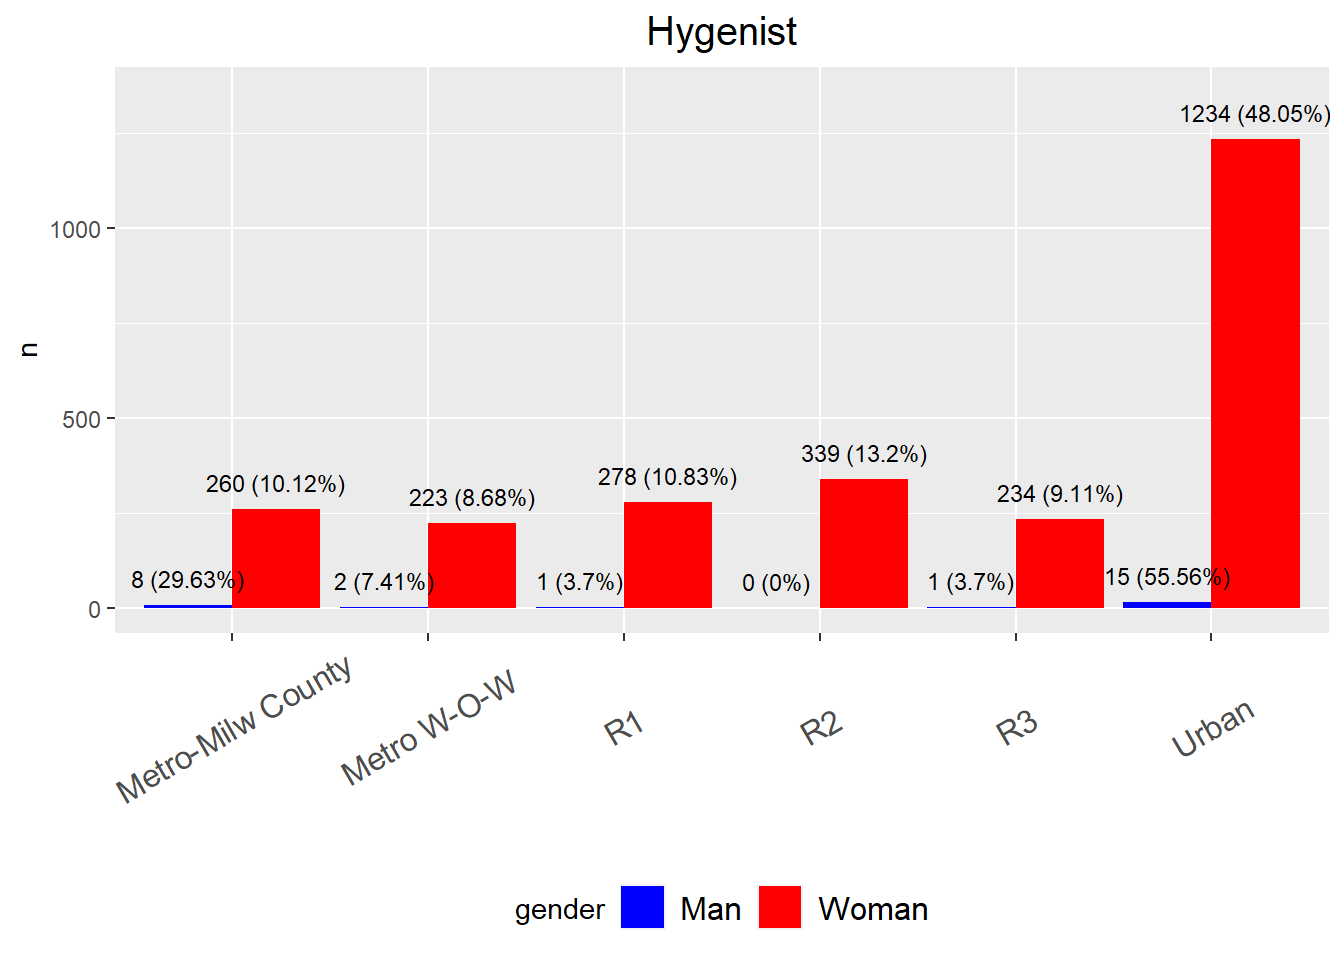
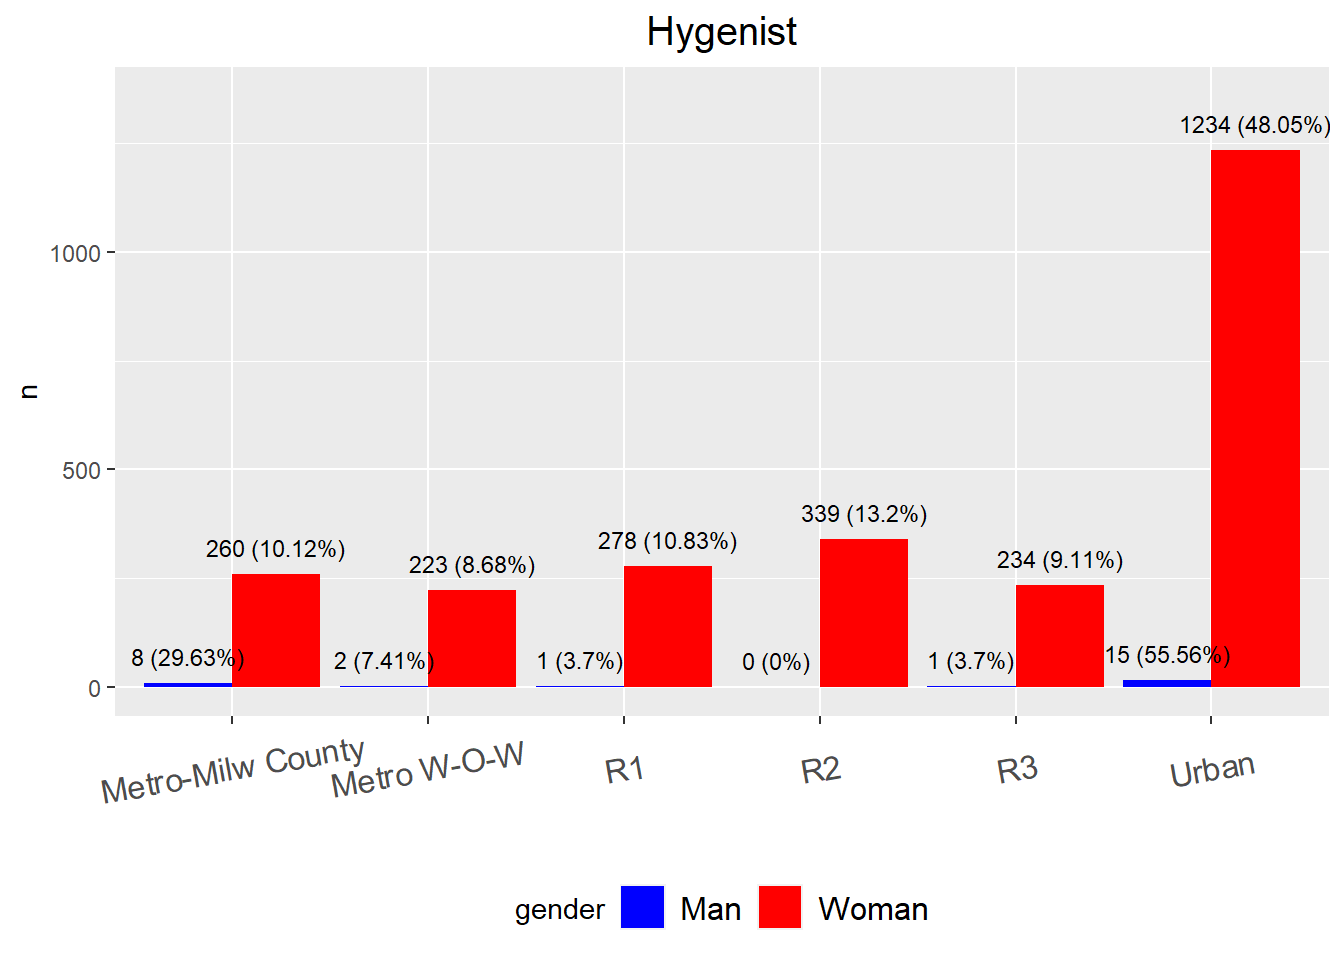
1/13/2025

diff --git a/docs/2024_0701_survey_part2.html b/docs/2024_0701_survey_part2.html
@@ -550,15 +550,15 @@ project makes it easier to run your code on other machines.</p>
 <div class="panel panel-default">
 <div class="panel-heading">
 <p class="panel-title">
-<a data-toggle="collapse" data-parent="#workflowr-checks" href="#strongRepositoryversionstrongahrefhttpsgithubcomhan16Collaborationstree68d7daff8e94c3f43565e73b5c15cebb3b57adf5targetblank68d7dafa">
+<a data-toggle="collapse" data-parent="#workflowr-checks" href="#strongRepositoryversionstrongahrefhttpsgithubcomhan16Collaborationstreee7750ee397905d7e55e713b433039f6348e9f17etargetblanke7750eea">
 <span class="glyphicon glyphicon-ok text-success"
 aria-hidden="true"></span> <strong>Repository version:</strong>
-<a href="https://github.com/han16/Collaborations/tree/68d7daff8e94c3f43565e73b5c15cebb3b57adf5" target="_blank">68d7daf</a>
+<a href="https://github.com/han16/Collaborations/tree/e7750ee397905d7e55e713b433039f6348e9f17e" target="_blank">e7750ee</a>
 </a>
 </p>
 </div>
 <div
[2 lines of base64/hex data omitted]
 class="panel-collapse collapse">
 <div class="panel-body">
 <p>
@@ -568,7 +568,7 @@ reproducibility.
 </p>
 <p>
 The results in this page were generated with repository version
-<a href="https://github.com/han16/Collaborations/tree/68d7daff8e94c3f43565e73b5c15cebb3b57adf5" target="_blank">68d7daf</a>.
+<a href="https://github.com/han16/Collaborations/tree/e7750ee397905d7e55e713b433039f6348e9f17e" target="_blank">e7750ee</a>.
 See the <em>Past versions</em> tab to see a history of the changes made
 to the R Markdown and HTML files.
 </p>
@@ -587,12 +587,8 @@ Ignored files:
     Ignored:    analysis/.Rhistory
     Ignored:    analysis/2022_Mar2_Marinho_cache/
 
-Untracked files:
-    Untracked:  analysis/2025_0101_Ardita.Rmd
-
 Unstaged changes:
     Modified:   analysis/2024_0701_survey_part2.Rmd
-    Modified:   analysis/2025.Rmd
 
 </code></pre>
 <p>
@@ -639,6 +635,40 @@ Message
 </tr>
 </thead>
 <tbody>
+<tr>
+<td>
+Rmd
+</td>
+<td>
+<a href="https://github.com/han16/Collaborations/blob/e7750ee397905d7e55e713b433039f6348e9f17e/analysis/2024_0701_survey_part2.Rmd" target="_blank">e7750ee</a>
+</td>
+<td>
+han
+</td>
+<td>
+2025-01-13
+</td>
+<td>
+1/13/2025
+</td>
+</tr>
+<tr>
+<td>
+html
+</td>
+<td>
+<a href="https://rawcdn.githack.com/han16/Collaborations/e7750ee397905d7e55e713b433039f6348e9f17e/docs/2024_0701_survey_part2.html" target="_blank">e7750ee</a>
+</td>
+<td>
+han
+</td>
+<td>
+2025-01-13
+</td>
+<td>
+1/13/2025
+</td>
+</tr>
 <tr>
 <td>
 Rmd
@@ -824,6 +854,17 @@ Date
 <tbody>
 <tr>
 <td>
+<a href="https://github.com/han16/Collaborations/blob/e7750ee397905d7e55e713b433039f6348e9f17e/docs/figure/2024_0701_survey_part2.Rmd/unnamed-chunk-5-1.png" target="_blank">e7750ee</a>
+</td>
+<td>
+han
+</td>
+<td>
+2025-01-13
+</td>
+</tr>
+<tr>
+<td>
 <a href="https://github.com/han16/Collaborations/blob/afbb9ccc5712b3826cdb1a3acc3dcba3f250e99c/docs/figure/2024_0701_survey_part2.Rmd/unnamed-chunk-5-1.png" target="_blank">afbb9cc</a>
 </td>
 <td>
@@ -863,6 +904,17 @@ Date
 </tr>
 </thead>
 <tbody>
+<tr>
+<td>
+<a href="https://github.com/han16/Collaborations/blob/e7750ee397905d7e55e713b433039f6348e9f17e/docs/figure/2024_0701_survey_part2.Rmd/unnamed-chunk-5-2.png" target="_blank">e7750ee</a>
+</td>
+<td>
+han
+</td>
+<td>
+2025-01-13
+</td>
+</tr>
 <tr>
 <td>
 <a href="https://github.com/han16/Collaborations/blob/afbb9ccc5712b3826cdb1a3acc3dcba3f250e99c/docs/figure/2024_0701_survey_part2.Rmd/unnamed-chunk-5-2.png" target="_blank">afbb9cc</a>
@@ -926,6 +978,17 @@ Date
 <tbody>
 <tr>
 <td>
+<a href="https://github.com/han16/Collaborations/blob/e7750ee397905d7e55e713b433039f6348e9f17e/docs/figure/2024_0701_survey_part2.Rmd/unnamed-chunk-6-1.png" target="_blank">e7750ee</a>
+</td>
+<td>
+han
+</td>
+<td>
+2025-01-13
+</td>
+</tr>
+<tr>
+<td>
 <a href="https://github.com/han16/Collaborations/blob/68d7daff8e94c3f43565e73b5c15cebb3b57adf5/docs/figure/2024_0701_survey_part2.Rmd/unnamed-chunk-6-1.png" target="_blank">68d7daf</a>
 </td>
 <td>
@@ -986,6 +1049,17 @@ Date
 </tr>
 </thead>
 <tbody>
+<tr>
+<td>
+<a href="https://github.com/han16/Collaborations/blob/e7750ee397905d7e55e713b433039f6348e9f17e/docs/figure/2024_0701_survey_part2.Rmd/unnamed-chunk-6-2.png" target="_blank">e7750ee</a>
+</td>
+<td>
+han
+</td>
+<td>
+2025-01-13
+</td>
+</tr>
 <tr>
 <td>
 <a href="https://github.com/han16/Collaborations/blob/68d7daff8e94c3f43565e73b5c15cebb3b57adf5/docs/figure/2024_0701_survey_part2.Rmd/unnamed-chunk-6-2.png" target="_blank">68d7daf</a>
@@ -1070,9 +1144,46 @@ prop[seq(1,11,by=2)]=gender_geo_data$num[seq(1,11,by=2)]/man_total
 prop[seq(2,12,by=2)]=gender_geo_data$num[seq(2,12,by=2)]/woman_total
 gender_geo_data=gender_geo_data %&gt;% mutate(prop=round(prop,4))
 
-fig=side_by_side_barplot(gender_geo_data, angle=30, num_size = 3, x_text_size=12, legend_text_size=12, title=&quot;Hygenist&quot;, custom_colors=c(&quot;Man&quot;=&quot;blue&quot;, &quot;Woman&quot;=&quot;red&quot;))
+fig=side_by_side_barplot(gender_geo_data, angle=10, num_size = 3, x_text_size=12, legend_text_size=12, title=&quot;Hygenist&quot;, custom_colors=c(&quot;Man&quot;=&quot;blue&quot;, &quot;Woman&quot;=&quot;red&quot;))
 fig</code></pre>
 <p><img src="figure/2024_0701_survey_part2.Rmd/unnamed-chunk-10-1.png" width="672" style="display: block; margin: auto;" /></p>
+<p>
+<button type="button" class="btn btn-default btn-xs btn-workflowr btn-workflowr-fig" data-toggle="collapse" data-target="#fig-unnamed-chunk-10-1">
+Past versions of unnamed-chunk-10-1.png
+</button>
+</p>
+<div id="fig-unnamed-chunk-10-1" class="collapse">
+<div class="table-responsive">
+<table class="table table-condensed table-hover">
+<thead>
+<tr>
+<th>
+Version
+</th>
+<th>
+Author
+</th>
+<th>
+Date
+</th>
+</tr>
+</thead>
+<tbody>
+<tr>
+<td>
+<a href="https://github.com/han16/Collaborations/blob/e7750ee397905d7e55e713b433039f6348e9f17e/docs/figure/2024_0701_survey_part2.Rmd/unnamed-chunk-10-1.png" target="_blank">e7750ee</a>
+</td>
+<td>
+han
+</td>
+<td>
+2025-01-13
+</td>
+</tr>
+</tbody>
+</table>
+</div>
+</div>
 <pre class="r"><code>gender_geo_data%&gt;% 
 datatable(extensions = &#39;Buttons&#39;,
           caption = &quot;Hygienist&quot;,
@@ -1082,7 +1193,10 @@ datatable(extensions = &#39;Buttons&#39;,
                                              c(10,25,50,&quot;All&quot;))))</code></pre>
 <div class="datatables html-widget html-fill-item" id="htmlwidget-88fdd2a34d502a66744b" style="width:100%;height:auto;"></div>
 <script type="application/json" data-for="htmlwidget-88fdd2a34d502a66744b">{"x":{"filter":"none","vertical":false,"extensions":["Buttons"],"caption":"<caption>Hygienist<\/caption>","data":[["1","2","3","4","5","6","7","8","9","10","11","12"],["R1","R1","Metro W-O-W","Metro W-O-W","Urban","Urban","R2","R2","R3","R3","Metro-Milw County","Metro-Milw County"],[1,278,2,223,15,1234,0,339,1,234,8,260],["Man","Woman","Man","Woman","Man","Woman","Man","Woman","Man","Woman","Man","Woman"],[0.037,0.1083,0.0741,0.0868,0.5556,0.4805,0,0.132,0.037,0.0911,0.2963,0.1012]],"container":"<table class=\"display\">\n  <thead>\n    <tr>\n      <th> <\/th>\n      <th>geo<\/th>\n      <th>num<\/th>\n      <th>gender<\/th>\n      <th>prop<\/th>\n    <\/tr>\n  <\/thead>\n<\/table>","options":{"dom":"Blfrtip","buttons":["copy","csv","excel","pdf","print"],"lengthMenu":[[10,25,50,-1],["10","25","50","All"]],"columnDefs":[{"className":"dt-right","targets":[2,4]},{"orderable":false,"targets":0},{"name":" ","targets":0},{"name":"geo","targets":1},{"name":"num","targets":2},{"name":"gender","targets":3},{"name":"prop","targets":4}],"order":[],"autoWidth":false,"orderClasses":false},"selection":{"mode":"multiple","selected":null,"target":"row","selectable":null}},"evals":[],"jsHooks":[]}</script>
-<pre class="r"><code>### sum(gender_geo_data$num) is not but should be equal to Dental_Hygienist$`Dental H`%&gt;% filter(`Gender Identity`==&quot;Man&quot; | `Gender Identity`==&quot;Woman&quot;) %&gt;% nrow()  ?????????? </code></pre>
+<pre class="r"><code>### sum(gender_geo_data$num) is not but should be equal to Dental_Hygienist$`Dental H`%&gt;% filter(`Gender Identity`==&quot;Man&quot; | `Gender Identity`==&quot;Woman&quot;) %&gt;% nrow()  ?????????? 
+
+sum(gender_geo_data$num)</code></pre>
+<pre><code>[1] 2595</code></pre>
 <ul>
 <li>only keep <code>Man</code> and <code>Woman</code> and ignore other
 responses</li>
@@ -1145,6 +1259,17 @@ Date
 <tbody>
 <tr>
 <td>
+<a href="https://github.com/han16/Collaborations/blob/e7750ee397905d7e55e713b433039f6348e9f17e/docs/figure/2024_0701_survey_part2.Rmd/unnamed-chunk-12-1.png" target="_blank">e7750ee</a>
+</td>
+<td>
+han
+</td>
+<td>
+2025-01-13
+</td>
+</tr>
+<tr>
+<td>
 <a href="https://github.com/han16/Collaborations/blob/afbb9ccc5712b3826cdb1a3acc3dcba3f250e99c/docs/figure/2024_0701_survey_part2.Rmd/unnamed-chunk-12-1.png" target="_blank">afbb9cc</a>
 </td>
 <td>
@@ -1161,15 +1286,52 @@ han
 <pre class="r"><code>fig=side_by_side_barplot3(gender_zones_data, angle=0, num_size = 3, x_text_size=12, legend_text_size=12, title=&quot;Hygienist&quot;, custom_colors= c(&quot;Woman&quot; = &quot;red&quot;, &quot;Man&quot; = &quot;green&quot;), x_var=&quot;geo&quot;, fill_var = &quot;gender&quot;)
 fig</code></pre>
 <p><img src="figure/2024_0701_survey_part2.Rmd/unnamed-chunk-12-2.png" width="672" style="display: block; margin: auto;" /></p>
+<p>
+<button type="button" class="btn btn-default btn-xs btn-workflowr btn-workflowr-fig" data-toggle="collapse" data-target="#fig-unnamed-chunk-12-2">
+Past versions of unnamed-chunk-12-2.png
+</button>
+</p>
+<div id="fig-unnamed-chunk-12-2" class="collapse">
+<div class="table-responsive">
+<table class="table table-condensed table-hover">
+<thead>
+<tr>
+<th>
+Version
+</th>
+<th>
+Author
+</th>
+<th>
+Date
+</th>
+</tr>
+</thead>
+<tbody>
+<tr>
+<td>
+<a href="https://github.com/han16/Collaborations/blob/e7750ee397905d7e55e713b433039f6348e9f17e/docs/figure/2024_0701_survey_part2.Rmd/unnamed-chunk-12-2.png" target="_blank">e7750ee</a>
+</td>
+<td>
+han
+</td>
+<td>
+2025-01-13
+</td>
+</tr>
+</tbody>
+</table>
+</div>
+</div>
 <pre class="r"><code>gender_zones_data%&gt;%
 datatable(extensions = &#39;Buttons&#39;,
-          caption = &quot;Dentist&quot;,
+          caption = &quot;Hygienist&quot;,
             options = list(dom = &#39;Blfrtip&#39;,
                            buttons = c(&#39;copy&#39;, &#39;csv&#39;, &#39;excel&#39;, &#39;pdf&#39;, &#39;print&#39;),
                            lengthMenu = list(c(10,25,50,-1),
                                              c(10,25,50,&quot;All&quot;))))</code></pre>
 <div class="datatables html-widget html-fill-item" id="htmlwidget-8e1fe96c0688a849169a" style="width:100%;height:auto;"></div>
-<script type="application/json" data-for="htmlwidget-8e1fe96c0688a849169a">{"x":{"filter":"none","vertical":false,"extensions":["Buttons"],"caption":"<caption>Dentist<\/caption>","data":[["1","2","3","4","5","6","7","8","9","10"],["Western","Western","Northeastern","Northeastern","Southern","Southern","Southeastern","Southeastern","Northern","Northern"],[0,336,4,586,10,461,8,674,2,251],["Man","Woman","Man","Woman","Man","Woman","Man","Woman","Man","Woman"],[0,0.1456,0.1667,0.2539,0.4167,0.1997,0.3333,0.292,0.0833,0.1088],[0,336,4,586,10,461,8,674,2,251]],"container":"<table class=\"display\">\n  <thead>\n    <tr>\n      <th> <\/th>\n      <th>geo<\/th>\n      <th>n<\/th>\n      <th>gender<\/th>\n      <th>prop<\/th>\n      <th>num<\/th>\n    <\/tr>\n  <\/thead>\n<\/table>","options":{"dom":"Blfrtip","buttons":["copy","csv","excel","pdf","print"],"lengthMenu":[[10,25,50,-1],["10","25","50","All"]],"columnDefs":[{"className":"dt-right","targets":[2,4,5]},{"orderable":false,"targets":0},{"name":" ","targets":0},{"name":"geo","targets":1},{"name":"n","targets":2},{"name":"gender","targets":3},{"name":"prop","targets":4},{"name":"num","targets":5}],"order":[],"autoWidth":false,"orderClasses":false},"selection":{"mode":"multiple","selected":null,"target":"row","selectable":null}},"evals":[],"jsHooks":[]}</script>
+<script type="application/json" data-for="htmlwidget-8e1fe96c0688a849169a">{"x":{"filter":"none","vertical":false,"extensions":["Buttons"],"caption":"<caption>Hygienist<\/caption>","data":[["1","2","3","4","5","6","7","8","9","10"],["Western","Western","Northeastern","Northeastern","Southern","Southern","Southeastern","Southeastern","Northern","Northern"],[0,336,4,586,10,461,8,674,2,251],["Man","Woman","Man","Woman","Man","Woman","Man","Woman","Man","Woman"],[0,0.1456,0.1667,0.2539,0.4167,0.1997,0.3333,0.292,0.0833,0.1088],[0,336,4,586,10,461,8,674,2,251]],"container":"<table class=\"display\">\n  <thead>\n    <tr>\n      <th> <\/th>\n      <th>geo<\/th>\n      <th>n<\/th>\n      <th>gender<\/th>\n      <th>prop<\/th>\n      <th>num<\/th>\n    <\/tr>\n  <\/thead>\n<\/table>","options":{"dom":"Blfrtip","buttons":["copy","csv","excel","pdf","print"],"lengthMenu":[[10,25,50,-1],["10","25","50","All"]],"columnDefs":[{"className":"dt-right","targets":[2,4,5]},{"orderable":false,"targets":0},{"name":" ","targets":0},{"name":"geo","targets":1},{"name":"n","targets":2},{"name":"gender","targets":3},{"name":"prop","targets":4},{"name":"num","targets":5}],"order":[],"autoWidth":false,"orderClasses":false},"selection":{"mode":"multiple","selected":null,"target":"row","selectable":null}},"evals":[],"jsHooks":[]}</script>
 <pre class="r"><code>sum(gender_zones_data$n)</code></pre>
 <pre><code>[1] 2332</code></pre>
 <br>
